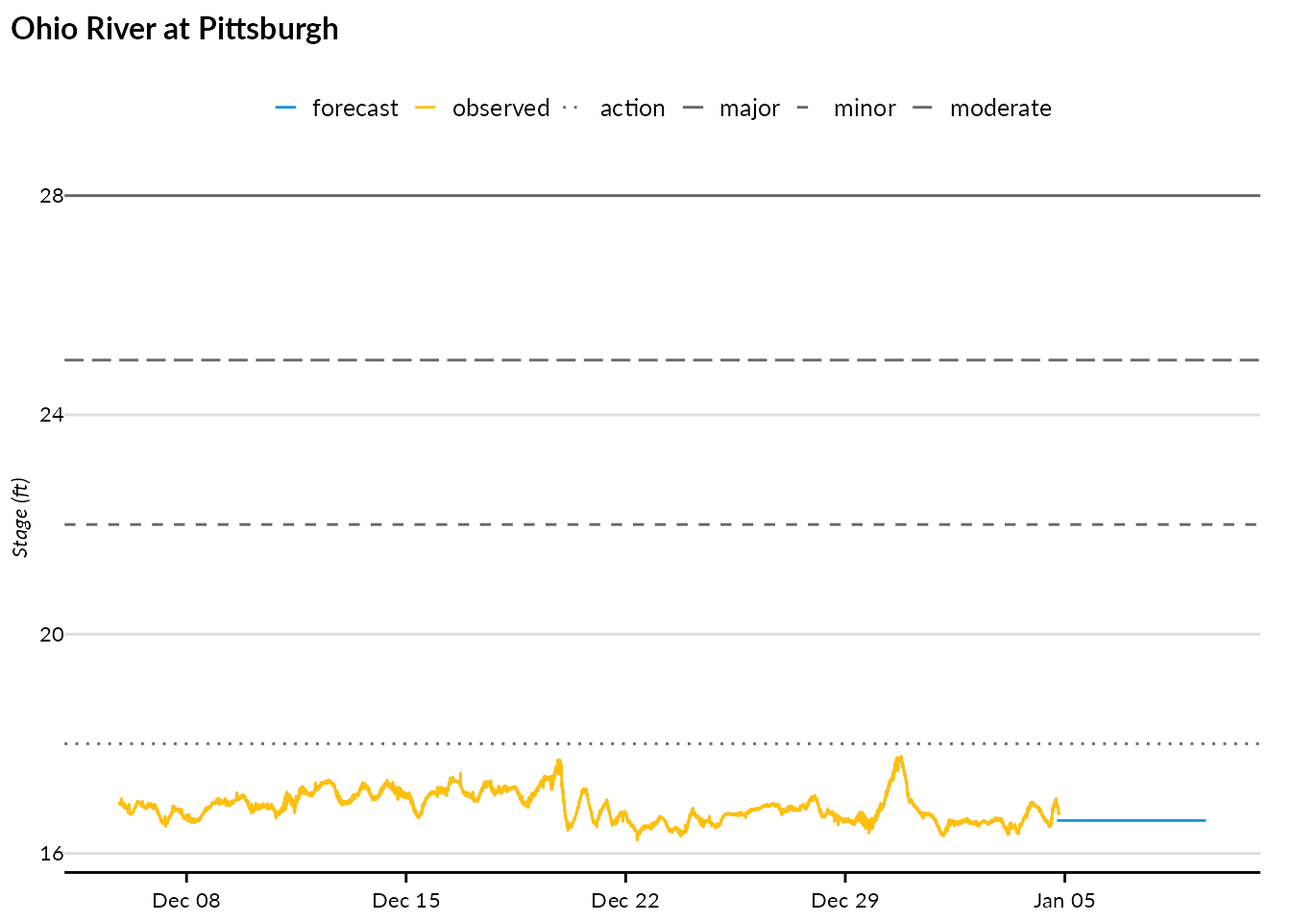
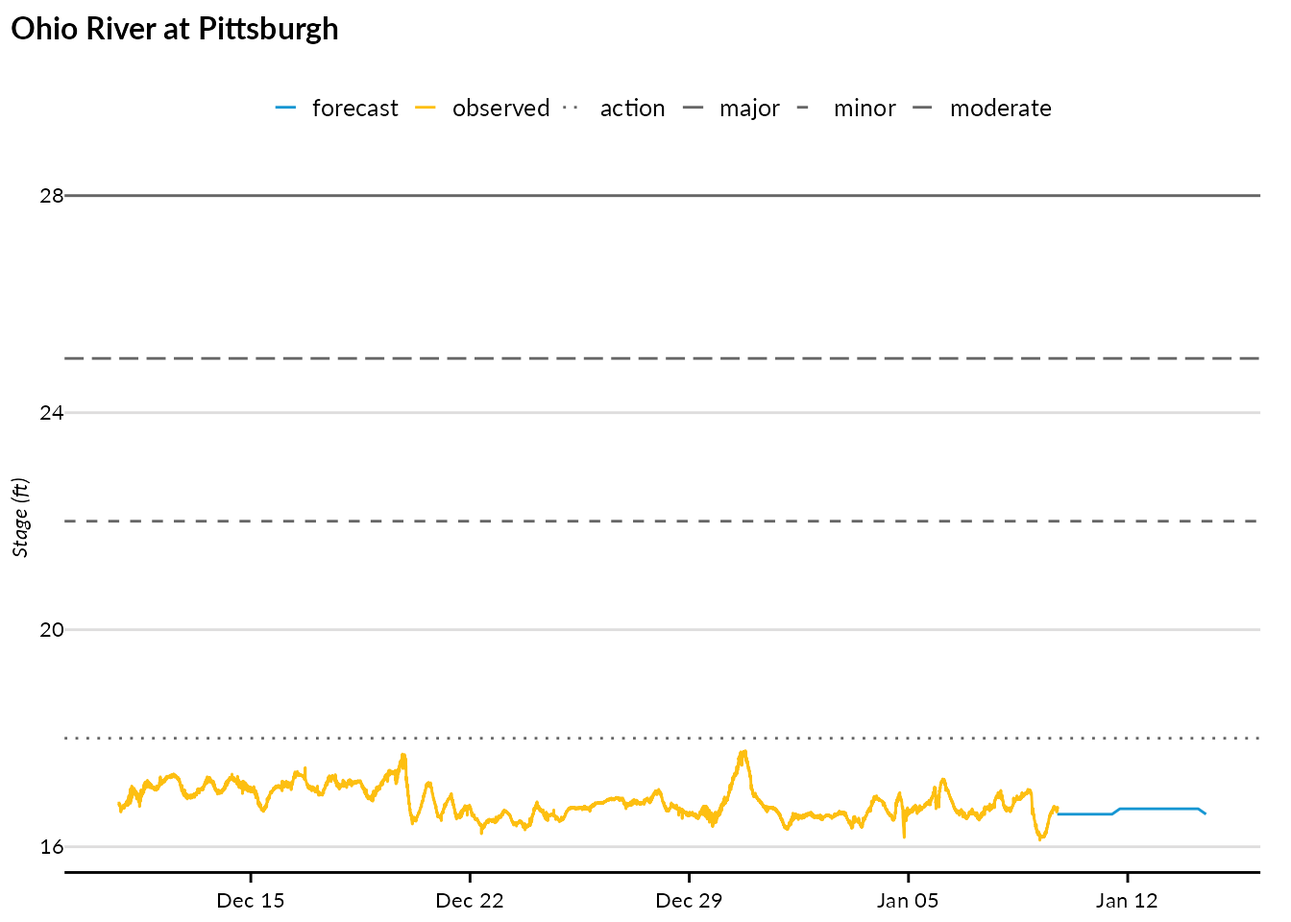
Deploying to gh-pages from @ UI-Research/nwps@55c2832f652c1a17ee87fc86994f76f4d304f9a6 🚀

diff --git a/articles/nwps.html b/articles/nwps.html
@@ -71,7 +71,7 @@
 <span><span class="co">#&gt; <span style="color: #00BBBB;">ℹ</span> The deprecated feature was likely used in the <span style="color: #0000BB;">urbnthemes</span> package.</span></span>
 <span><span class="co">#&gt;   Please report the issue at</span></span>
 <span><span class="co">#&gt;   <span style="color: #0000BB; font-style: italic;">&lt;https://github.com/UrbanInstitute/urbnthemes/issues&gt;</span>.</span></span>
-<span><span class="co">#&gt; <span style="color: #555555;">This warning is displayed once every 8 hours.</span></span></span>
+<span><span class="co">#&gt; <span style="color: #555555;">This warning is displayed once per session.</span></span></span>
 <span><span class="co">#&gt; <span style="color: #555555;">Call `lifecycle::last_lifecycle_warnings()` to see where this warning was</span></span></span>
 <span><span class="co">#&gt; <span style="color: #555555;">generated.</span></span></span>
 <span><span class="co">#&gt; Warning: The `size` argument of `element_rect()` is deprecated as of ggplot2 3.4.0.</span></span>
@@ -79,7 +79,7 @@
 <span><span class="co">#&gt; <span style="color: #00BBBB;">ℹ</span> The deprecated feature was likely used in the <span style="color: #0000BB;">urbnthemes</span> package.</span></span>
 <span><span class="co">#&gt;   Please report the issue at</span></span>
 <span><span class="co">#&gt;   <span style="color: #0000BB; font-style: italic;">&lt;https://github.com/UrbanInstitute/urbnthemes/issues&gt;</span>.</span></span>
-<span><span class="co">#&gt; <span style="color: #555555;">This warning is displayed once every 8 hours.</span></span></span>
+<span><span class="co">#&gt; <span style="color: #555555;">This warning is displayed once per session.</span></span></span>
 <span><span class="co">#&gt; <span style="color: #555555;">Call `lifecycle::last_lifecycle_warnings()` to see where this warning was</span></span></span>
 <span><span class="co">#&gt; <span style="color: #555555;">generated.</span></span></span></code></pre></div>
 <div class="section level2">
@@ -255,8 +255,8 @@ time series. By default, it returns both observed and forecast data.</p>
 <span><span class="co">#&gt; <span style="color: #949494;"># A tibble: 2 × 4</span></span></span>
 <span><span class="co">#&gt;   product  n_obs min_time            max_time           </span></span>
 <span><span class="co">#&gt;   <span style="color: #949494; font-style: italic;">&lt;chr&gt;</span>    <span style="color: #949494; font-style: italic;">&lt;int&gt;</span> <span style="color: #949494; font-style: italic;">&lt;dttm&gt;</span>              <span style="color: #949494; font-style: italic;">&lt;dttm&gt;</span>             </span></span>
-<span><span class="co">#&gt; <span style="color: #BCBCBC;">1</span> forecast    20 2026-01-04 <span style="color: #949494;">18:00:00</span> 2026-01-09 <span style="color: #949494;">12:00:00</span></span></span>
-<span><span class="co">#&gt; <span style="color: #BCBCBC;">2</span> observed  <span style="text-decoration: underline;">8</span>594 2025-12-05 <span style="color: #949494;">20:15:00</span> 2026-01-04 <span style="color: #949494;">19:30:00</span></span></span></code></pre></div>
+<span><span class="co">#&gt; <span style="color: #BCBCBC;">1</span> forecast    20 2026-01-09 <span style="color: #949494;">18:00:00</span> 2026-01-14 <span style="color: #949494;">12:00:00</span></span></span>
+<span><span class="co">#&gt; <span style="color: #BCBCBC;">2</span> observed  <span style="text-decoration: underline;">8</span>603 2025-12-10 <span style="color: #949494;">18:55:00</span> 2026-01-09 <span style="color: #949494;">18:15:00</span></span></span></code></pre></div>
 </div>
 <div class="section level3">
 <h3 id="visualize-the-hydrograph">Visualize the hydrograph<a class="anchor" aria-label="anchor" href="#visualize-the-hydrograph"></a>
@@ -285,7 +285,7 @@ time series. By default, it returns both observed and forecast data.</p>
 <span>  <span class="op">)</span></span>
 <span><span class="co">#&gt; Warning: The `scale_name` argument of `discrete_scale()` is deprecated as of ggplot2</span></span>
 <span><span class="co">#&gt; 3.5.0.</span></span>
-<span><span class="co">#&gt; <span style="color: #555555;">This warning is displayed once every 8 hours.</span></span></span>
+<span><span class="co">#&gt; <span style="color: #555555;">This warning is displayed once per session.</span></span></span>
 <span><span class="co">#&gt; <span style="color: #555555;">Call `lifecycle::last_lifecycle_warnings()` to see where this warning was</span></span></span>
 <span><span class="co">#&gt; <span style="color: #555555;">generated.</span></span></span></code></pre></div>
 <p><img src="nwps_files/figure-html/hydrograph-1.png" class="r-plt" alt="" width="672"></p>
@@ -299,7 +299,7 @@ time series. By default, it returns both observed and forecast data.</p>
 <span><span class="va">forecast_only</span> <span class="op">&lt;-</span> <span class="fu"><a href="../reference/nwps_gauge_stageflow.html">nwps_gauge_stageflow</a></span><span class="op">(</span><span class="st">"PTTP1"</span>, product <span class="op">=</span> <span class="st">"forecast"</span><span class="op">)</span></span>
 <span></span>
 <span><span class="fu"><a href="https://rdrr.io/r/base/nrow.html" class="external-link">nrow</a></span><span class="op">(</span><span class="va">observed_only</span><span class="op">)</span></span>
-<span><span class="co">#&gt; [1] 8596</span></span>
+<span><span class="co">#&gt; [1] 8604</span></span>
 <span><span class="fu"><a href="https://rdrr.io/r/base/nrow.html" class="external-link">nrow</a></span><span class="op">(</span><span class="va">forecast_only</span><span class="op">)</span></span>
 <span><span class="co">#&gt; [1] 20</span></span></code></pre></div>
 </div>
@@ -411,16 +411,16 @@ days)</li>
 <span><span class="co">#&gt; <span style="color: #949494;"># A tibble: 10 × 7</span></span></span>
 <span><span class="co">#&gt;    reach_id series    member reference_time      valid_time           flow units</span></span>
 <span><span class="co">#&gt;    <span style="color: #949494; font-style: italic;">&lt;chr&gt;</span>    <span style="color: #949494; font-style: italic;">&lt;chr&gt;</span>     <span style="color: #949494; font-style: italic;">&lt;chr&gt;</span>  <span style="color: #949494; font-style: italic;">&lt;dttm&gt;</span>              <span style="color: #949494; font-style: italic;">&lt;dttm&gt;</span>              <span style="color: #949494; font-style: italic;">&lt;dbl&gt;</span> <span style="color: #949494; font-style: italic;">&lt;chr&gt;</span></span></span>
-<span><span class="co">#&gt; <span style="color: #BCBCBC;"> 1</span> 22338099 short_ra… series 2026-01-04 <span style="color: #949494;">18:00:00</span> 2026-01-04 <span style="color: #949494;">19:00:00</span>  57.2 ft³/s</span></span>
-<span><span class="co">#&gt; <span style="color: #BCBCBC;"> 2</span> 22338099 short_ra… series 2026-01-04 <span style="color: #949494;">18:00:00</span> 2026-01-04 <span style="color: #949494;">20:00:00</span>  60.0 ft³/s</span></span>
-<span><span class="co">#&gt; <span style="color: #BCBCBC;"> 3</span> 22338099 short_ra… series 2026-01-04 <span style="color: #949494;">18:00:00</span> 2026-01-04 <span style="color: #949494;">21:00:00</span>  65.0 ft³/s</span></span>
-<span><span class="co">#&gt; <span style="color: #BCBCBC;"> 4</span> 22338099 short_ra… series 2026-01-04 <span style="color: #949494;">18:00:00</span> 2026-01-04 <span style="color: #949494;">22:00:00</span>  69.9 ft³/s</span></span>
-<span><span class="co">#&gt; <span style="color: #BCBCBC;"> 5</span> 22338099 short_ra… series 2026-01-04 <span style="color: #949494;">18:00:00</span> 2026-01-04 <span style="color: #949494;">23:00:00</span>  74.2 ft³/s</span></span>
-<span><span class="co">#&gt; <span style="color: #BCBCBC;"> 6</span> 22338099 short_ra… series 2026-01-04 <span style="color: #949494;">18:00:00</span> 2026-01-05 <span style="color: #949494;">00:00:00</span>  77.3 ft³/s</span></span>
-<span><span class="co">#&gt; <span style="color: #BCBCBC;"> 7</span> 22338099 short_ra… series 2026-01-04 <span style="color: #949494;">18:00:00</span> 2026-01-05 <span style="color: #949494;">01:00:00</span>  79.5 ft³/s</span></span>
-<span><span class="co">#&gt; <span style="color: #BCBCBC;"> 8</span> 22338099 short_ra… series 2026-01-04 <span style="color: #949494;">18:00:00</span> 2026-01-05 <span style="color: #949494;">02:00:00</span>  80.5 ft³/s</span></span>
-<span><span class="co">#&gt; <span style="color: #BCBCBC;"> 9</span> 22338099 short_ra… series 2026-01-04 <span style="color: #949494;">18:00:00</span> 2026-01-05 <span style="color: #949494;">03:00:00</span>  81.6 ft³/s</span></span>
-<span><span class="co">#&gt; <span style="color: #BCBCBC;">10</span> 22338099 short_ra… series 2026-01-04 <span style="color: #949494;">18:00:00</span> 2026-01-05 <span style="color: #949494;">04:00:00</span>  82.3 ft³/s</span></span></code></pre></div>
+<span><span class="co">#&gt; <span style="color: #BCBCBC;"> 1</span> 22338099 short_ra… series 2026-01-09 <span style="color: #949494;">16:00:00</span> 2026-01-09 <span style="color: #949494;">17:00:00</span>  56.1 ft³/s</span></span>
+<span><span class="co">#&gt; <span style="color: #BCBCBC;"> 2</span> 22338099 short_ra… series 2026-01-09 <span style="color: #949494;">16:00:00</span> 2026-01-09 <span style="color: #949494;">18:00:00</span>  56.5 ft³/s</span></span>
+<span><span class="co">#&gt; <span style="color: #BCBCBC;"> 3</span> 22338099 short_ra… series 2026-01-09 <span style="color: #949494;">16:00:00</span> 2026-01-09 <span style="color: #949494;">19:00:00</span>  56.9 ft³/s</span></span>
+<span><span class="co">#&gt; <span style="color: #BCBCBC;"> 4</span> 22338099 short_ra… series 2026-01-09 <span style="color: #949494;">16:00:00</span> 2026-01-09 <span style="color: #949494;">20:00:00</span>  57.6 ft³/s</span></span>
+<span><span class="co">#&gt; <span style="color: #BCBCBC;"> 5</span> 22338099 short_ra… series 2026-01-09 <span style="color: #949494;">16:00:00</span> 2026-01-09 <span style="color: #949494;">21:00:00</span>  58.6 ft³/s</span></span>
+<span><span class="co">#&gt; <span style="color: #BCBCBC;"> 6</span> 22338099 short_ra… series 2026-01-09 <span style="color: #949494;">16:00:00</span> 2026-01-09 <span style="color: #949494;">22:00:00</span>  59.7 ft³/s</span></span>
+<span><span class="co">#&gt; <span style="color: #BCBCBC;"> 7</span> 22338099 short_ra… series 2026-01-09 <span style="color: #949494;">16:00:00</span> 2026-01-09 <span style="color: #949494;">23:00:00</span>  61.8 ft³/s</span></span>
+<span><span class="co">#&gt; <span style="color: #BCBCBC;"> 8</span> 22338099 short_ra… series 2026-01-09 <span style="color: #949494;">16:00:00</span> 2026-01-10 <span style="color: #949494;">00:00:00</span>  65.7 ft³/s</span></span>
+<span><span class="co">#&gt; <span style="color: #BCBCBC;"> 9</span> 22338099 short_ra… series 2026-01-09 <span style="color: #949494;">16:00:00</span> 2026-01-10 <span style="color: #949494;">01:00:00</span>  69.9 ft³/s</span></span>
+<span><span class="co">#&gt; <span style="color: #BCBCBC;">10</span> 22338099 short_ra… series 2026-01-09 <span style="color: #949494;">16:00:00</span> 2026-01-10 <span style="color: #949494;">02:00:00</span>  73.4 ft³/s</span></span></code></pre></div>
 </div>
 <div class="section level3">
 <h3 id="visualize-nwm-forecasts">Visualize NWM forecasts<a class="anchor" aria-label="anchor" href="#visualize-nwm-forecasts"></a>
@@ -447,16 +447,15 @@ available:</p>
 <span><span class="va">medium_range</span> <span class="op">|&gt;</span></span>
 <span>  <span class="fu"><a href="https://dplyr.tidyverse.org/reference/group_by.html" class="external-link">group_by</a></span><span class="op">(</span><span class="va">member</span><span class="op">)</span> <span class="op">|&gt;</span></span>
 <span>  <span class="fu"><a href="https://dplyr.tidyverse.org/reference/summarise.html" class="external-link">summarize</a></span><span class="op">(</span>n <span class="op">=</span> <span class="fu"><a href="https://dplyr.tidyverse.org/reference/context.html" class="external-link">n</a></span><span class="op">(</span><span class="op">)</span>, .groups <span class="op">=</span> <span class="st">"drop"</span><span class="op">)</span></span>
-<span><span class="co">#&gt; <span style="color: #949494;"># A tibble: 7 × 2</span></span></span>
+<span><span class="co">#&gt; <span style="color: #949494;"># A tibble: 6 × 2</span></span></span>
 <span><span class="co">#&gt;   member      n</span></span>
 <span><span class="co">#&gt;   <span style="color: #949494; font-style: italic;">&lt;chr&gt;</span>   <span style="color: #949494; font-style: italic;">&lt;int&gt;</span></span></span>
 <span><span class="co">#&gt; <span style="color: #BCBCBC;">1</span> mean      204</span></span>
 <span><span class="co">#&gt; <span style="color: #BCBCBC;">2</span> member1   240</span></span>
-<span><span class="co">#&gt; <span style="color: #BCBCBC;">3</span> member2   204</span></span>
-<span><span class="co">#&gt; <span style="color: #BCBCBC;">4</span> member3   204</span></span>
-<span><span class="co">#&gt; <span style="color: #BCBCBC;">5</span> member4   204</span></span>
-<span><span class="co">#&gt; <span style="color: #BCBCBC;">6</span> member5   204</span></span>
-<span><span class="co">#&gt; <span style="color: #BCBCBC;">7</span> member6   204</span></span></code></pre></div>
+<span><span class="co">#&gt; <span style="color: #BCBCBC;">3</span> member3   204</span></span>
+<span><span class="co">#&gt; <span style="color: #BCBCBC;">4</span> member4   204</span></span>
+<span><span class="co">#&gt; <span style="color: #BCBCBC;">5</span> member5   204</span></span>
+<span><span class="co">#&gt; <span style="color: #BCBCBC;">6</span> member6   204</span></span></code></pre></div>
 </div>
 </div>
 <div class="section level2">
@@ -483,12 +482,12 @@ Source) code:</p>
 <span><span class="co">#&gt; <span style="color: #949494;"># A tibble: 6 × 12</span></span></span>
 <span><span class="co">#&gt;   pedts issued_time         wfo   time_zone valid_time         </span></span>
 <span><span class="co">#&gt;   <span style="color: #949494; font-style: italic;">&lt;chr&gt;</span> <span style="color: #949494; font-style: italic;">&lt;dttm&gt;</span>              <span style="color: #949494; font-style: italic;">&lt;chr&gt;</span> <span style="color: #949494; font-style: italic;">&lt;chr&gt;</span>     <span style="color: #949494; font-style: italic;">&lt;dttm&gt;</span>             </span></span>
-<span><span class="co">#&gt; <span style="color: #BCBCBC;">1</span> HGIRG 2026-01-04 <span style="color: #949494;">19:45:00</span> PBZ   EST5EDT   2025-12-05 <span style="color: #949494;">20:05:00</span></span></span>
-<span><span class="co">#&gt; <span style="color: #BCBCBC;">2</span> HGIRG 2026-01-04 <span style="color: #949494;">19:45:00</span> PBZ   EST5EDT   2025-12-05 <span style="color: #949494;">20:10:00</span></span></span>
-<span><span class="co">#&gt; <span style="color: #BCBCBC;">3</span> HGIRG 2026-01-04 <span style="color: #949494;">19:45:00</span> PBZ   EST5EDT   2025-12-05 <span style="color: #949494;">20:15:00</span></span></span>
-<span><span class="co">#&gt; <span style="color: #BCBCBC;">4</span> HGIRG 2026-01-04 <span style="color: #949494;">19:45:00</span> PBZ   EST5EDT   2025-12-05 <span style="color: #949494;">20:20:00</span></span></span>
-<span><span class="co">#&gt; <span style="color: #BCBCBC;">5</span> HGIRG 2026-01-04 <span style="color: #949494;">19:45:00</span> PBZ   EST5EDT   2025-12-05 <span style="color: #949494;">20:25:00</span></span></span>
-<span><span class="co">#&gt; <span style="color: #BCBCBC;">6</span> HGIRG 2026-01-04 <span style="color: #949494;">19:45:00</span> PBZ   EST5EDT   2025-12-05 <span style="color: #949494;">20:30:00</span></span></span>
+<span><span class="co">#&gt; <span style="color: #BCBCBC;">1</span> HGIRG 2026-01-09 <span style="color: #949494;">18:30:00</span> PBZ   EST5EDT   2025-12-10 <span style="color: #949494;">18:50:00</span></span></span>
+<span><span class="co">#&gt; <span style="color: #BCBCBC;">2</span> HGIRG 2026-01-09 <span style="color: #949494;">18:30:00</span> PBZ   EST5EDT   2025-12-10 <span style="color: #949494;">18:55:00</span></span></span>
+<span><span class="co">#&gt; <span style="color: #BCBCBC;">3</span> HGIRG 2026-01-09 <span style="color: #949494;">18:30:00</span> PBZ   EST5EDT   2025-12-10 <span style="color: #949494;">19:00:00</span></span></span>
+<span><span class="co">#&gt; <span style="color: #BCBCBC;">4</span> HGIRG 2026-01-09 <span style="color: #949494;">18:30:00</span> PBZ   EST5EDT   2025-12-10 <span style="color: #949494;">19:05:00</span></span></span>
+<span><span class="co">#&gt; <span style="color: #BCBCBC;">5</span> HGIRG 2026-01-09 <span style="color: #949494;">18:30:00</span> PBZ   EST5EDT   2025-12-10 <span style="color: #949494;">19:10:00</span></span></span>
+<span><span class="co">#&gt; <span style="color: #BCBCBC;">6</span> HGIRG 2026-01-09 <span style="color: #949494;">18:30:00</span> PBZ   EST5EDT   2025-12-10 <span style="color: #949494;">19:15:00</span></span></span>
 <span><span class="co">#&gt; <span style="color: #949494;"># ℹ 7 more variables: generated_time &lt;dttm&gt;, primary &lt;dbl&gt;, primary_name &lt;chr&gt;,</span></span></span>
 <span><span class="co">#&gt; <span style="color: #949494;">#   primary_units &lt;chr&gt;, secondary &lt;dbl&gt;, secondary_name &lt;chr&gt;,</span></span></span>
 <span><span class="co">#&gt; <span style="color: #949494;">#   secondary_units &lt;chr&gt;</span></span></span></code></pre></div>
@@ -510,29 +509,29 @@ status:</p>
 <span><span class="co">#&gt; <span style="color: #949494;"># A tibble: 9 × 3</span></span></span>
 <span><span class="co">#&gt;   type     category        count</span></span>
 <span><span class="co">#&gt;   <span style="color: #949494; font-style: italic;">&lt;chr&gt;</span>    <span style="color: #949494; font-style: italic;">&lt;chr&gt;</span>           <span style="color: #949494; font-style: italic;">&lt;int&gt;</span></span></span>
-<span><span class="co">#&gt; <span style="color: #BCBCBC;">1</span> observed action             28</span></span>
-<span><span class="co">#&gt; <span style="color: #BCBCBC;">2</span> observed low_threshold      98</span></span>
-<span><span class="co">#&gt; <span style="color: #BCBCBC;">3</span> observed major               2</span></span>
-<span><span class="co">#&gt; <span style="color: #BCBCBC;">4</span> observed minor               3</span></span>
-<span><span class="co">#&gt; <span style="color: #BCBCBC;">5</span> observed moderate            2</span></span>
-<span><span class="co">#&gt; <span style="color: #BCBCBC;">6</span> observed no_flooding      <span style="text-decoration: underline;">6</span>757</span></span>
-<span><span class="co">#&gt; <span style="color: #BCBCBC;">7</span> observed not_defined      <span style="text-decoration: underline;">3</span>948</span></span>
-<span><span class="co">#&gt; <span style="color: #BCBCBC;">8</span> observed obs_not_current   897</span></span>
-<span><span class="co">#&gt; <span style="color: #BCBCBC;">9</span> observed out_of_service    801</span></span>
+<span><span class="co">#&gt; <span style="color: #BCBCBC;">1</span> observed action             26</span></span>
+<span><span class="co">#&gt; <span style="color: #BCBCBC;">2</span> observed low_threshold      86</span></span>
+<span><span class="co">#&gt; <span style="color: #BCBCBC;">3</span> observed major               3</span></span>
+<span><span class="co">#&gt; <span style="color: #BCBCBC;">4</span> observed minor               1</span></span>
+<span><span class="co">#&gt; <span style="color: #BCBCBC;">5</span> observed moderate            1</span></span>
+<span><span class="co">#&gt; <span style="color: #BCBCBC;">6</span> observed no_flooding      <span style="text-decoration: underline;">6</span>790</span></span>
+<span><span class="co">#&gt; <span style="color: #BCBCBC;">7</span> observed not_defined      <span style="text-decoration: underline;">3</span>967</span></span>
+<span><span class="co">#&gt; <span style="color: #BCBCBC;">8</span> observed obs_not_current   878</span></span>
+<span><span class="co">#&gt; <span style="color: #BCBCBC;">9</span> observed out_of_service    804</span></span>
 <span></span>
 <span><span class="co"># Gauges by forecast flood category</span></span>
 <span><span class="va">status</span><span class="op">$</span><span class="va">gauge_forecast</span></span>
 <span><span class="co">#&gt; <span style="color: #949494;"># A tibble: 8 × 3</span></span></span>
 <span><span class="co">#&gt;   type     category         count</span></span>
 <span><span class="co">#&gt;   <span style="color: #949494; font-style: italic;">&lt;chr&gt;</span>    <span style="color: #949494; font-style: italic;">&lt;chr&gt;</span>            <span style="color: #949494; font-style: italic;">&lt;int&gt;</span></span></span>
-<span><span class="co">#&gt; <span style="color: #BCBCBC;">1</span> forecast action              39</span></span>
-<span><span class="co">#&gt; <span style="color: #BCBCBC;">2</span> forecast fcst_not_current  <span style="text-decoration: underline;">9</span>609</span></span>
-<span><span class="co">#&gt; <span style="color: #BCBCBC;">3</span> forecast low_threshold        8</span></span>
-<span><span class="co">#&gt; <span style="color: #BCBCBC;">4</span> forecast minor                6</span></span>
+<span><span class="co">#&gt; <span style="color: #BCBCBC;">1</span> forecast action              42</span></span>
+<span><span class="co">#&gt; <span style="color: #BCBCBC;">2</span> forecast fcst_not_current  <span style="text-decoration: underline;">9</span>540</span></span>
+<span><span class="co">#&gt; <span style="color: #BCBCBC;">3</span> forecast low_threshold        5</span></span>
+<span><span class="co">#&gt; <span style="color: #BCBCBC;">4</span> forecast minor                1</span></span>
 <span><span class="co">#&gt; <span style="color: #BCBCBC;">5</span> forecast moderate             1</span></span>
-<span><span class="co">#&gt; <span style="color: #BCBCBC;">6</span> forecast no_flooding       <span style="text-decoration: underline;">1</span>708</span></span>
-<span><span class="co">#&gt; <span style="color: #BCBCBC;">7</span> forecast not_defined        364</span></span>
-<span><span class="co">#&gt; <span style="color: #BCBCBC;">8</span> forecast out_of_service     801</span></span></code></pre></div>
+<span><span class="co">#&gt; <span style="color: #BCBCBC;">6</span> forecast no_flooding       <span style="text-decoration: underline;">1</span>783</span></span>
+<span><span class="co">#&gt; <span style="color: #BCBCBC;">7</span> forecast not_defined        380</span></span>
+<span><span class="co">#&gt; <span style="color: #BCBCBC;">8</span> forecast out_of_service     804</span></span></code></pre></div>
 <p>The monitoring endpoint also provides information about data
 processing:</p>
 <div class="sourceCode" id="cb19"><pre class="downlit sourceCode r">
@@ -541,16 +540,16 @@ processing:</p>
 <span><span class="co">#&gt; <span style="color: #949494;"># A tibble: 102 × 2</span></span></span>
 <span><span class="co">#&gt;    time_period count</span></span>
 <span><span class="co">#&gt;    <span style="color: #949494; font-style: italic;">&lt;chr&gt;</span>       <span style="color: #949494; font-style: italic;">&lt;int&gt;</span></span></span>
-<span><span class="co">#&gt; <span style="color: #BCBCBC;"> 1</span> t-10day     <span style="text-decoration: underline;">47</span>073</span></span>
-<span><span class="co">#&gt; <span style="color: #BCBCBC;"> 2</span> t-10hour     <span style="text-decoration: underline;">1</span>961</span></span>
-<span><span class="co">#&gt; <span style="color: #BCBCBC;"> 3</span> t-11day     <span style="text-decoration: underline;">47</span>112</span></span>
-<span><span class="co">#&gt; <span style="color: #BCBCBC;"> 4</span> t-11hour     <span style="text-decoration: underline;">1</span>963</span></span>
-<span><span class="co">#&gt; <span style="color: #BCBCBC;"> 5</span> t-12day     <span style="text-decoration: underline;">47</span>115</span></span>
-<span><span class="co">#&gt; <span style="color: #BCBCBC;"> 6</span> t-12hour     <span style="text-decoration: underline;">1</span>962</span></span>
-<span><span class="co">#&gt; <span style="color: #BCBCBC;"> 7</span> t-13day     <span style="text-decoration: underline;">47</span>117</span></span>
-<span><span class="co">#&gt; <span style="color: #BCBCBC;"> 8</span> t-13hour     <span style="text-decoration: underline;">1</span>960</span></span>
-<span><span class="co">#&gt; <span style="color: #BCBCBC;"> 9</span> t-14day     <span style="text-decoration: underline;">47</span>032</span></span>
-<span><span class="co">#&gt; <span style="color: #BCBCBC;">10</span> t-14hour     <span style="text-decoration: underline;">1</span>959</span></span>
+<span><span class="co">#&gt; <span style="color: #BCBCBC;"> 1</span> t-10day     <span style="text-decoration: underline;">47</span>087</span></span>
+<span><span class="co">#&gt; <span style="color: #BCBCBC;"> 2</span> t-10hour     <span style="text-decoration: underline;">1</span>950</span></span>
+<span><span class="co">#&gt; <span style="color: #BCBCBC;"> 3</span> t-11day     <span style="text-decoration: underline;">46</span>954</span></span>
+<span><span class="co">#&gt; <span style="color: #BCBCBC;"> 4</span> t-11hour     <span style="text-decoration: underline;">1</span>955</span></span>
+<span><span class="co">#&gt; <span style="color: #BCBCBC;"> 5</span> t-12day     <span style="text-decoration: underline;">47</span>038</span></span>
+<span><span class="co">#&gt; <span style="color: #BCBCBC;"> 6</span> t-12hour     <span style="text-decoration: underline;">1</span>951</span></span>
+<span><span class="co">#&gt; <span style="color: #BCBCBC;"> 7</span> t-13day     <span style="text-decoration: underline;">47</span>107</span></span>
+<span><span class="co">#&gt; <span style="color: #BCBCBC;"> 8</span> t-13hour     <span style="text-decoration: underline;">1</span>953</span></span>
+<span><span class="co">#&gt; <span style="color: #BCBCBC;"> 9</span> t-14day     <span style="text-decoration: underline;">47</span>099</span></span>
+<span><span class="co">#&gt; <span style="color: #BCBCBC;">10</span> t-14hour     <span style="text-decoration: underline;">1</span>955</span></span>
 <span><span class="co">#&gt; <span style="color: #949494;"># ℹ 92 more rows</span></span></span>
 <span></span>
 <span><span class="co"># Long Range Outlook status</span></span>
@@ -558,7 +557,7 @@ processing:</p>
 <span><span class="co">#&gt; <span style="color: #949494;"># A tibble: 1 × 2</span></span></span>
 <span><span class="co">#&gt;   current_lros current_interval</span></span>
 <span><span class="co">#&gt;          <span style="color: #949494; font-style: italic;">&lt;int&gt;</span> <span style="color: #949494; font-style: italic;">&lt;chr&gt;</span>           </span></span>
-<span><span class="co">#&gt; <span style="color: #BCBCBC;">1</span>          353 JFM</span></span></code></pre></div>
+<span><span class="co">#&gt; <span style="color: #BCBCBC;">1</span>         <span style="text-decoration: underline;">1</span>029 JFM</span></span></code></pre></div>
 </div>
 </div>
 <div class="section level2">

diff --git a/articles/nwps.md b/articles/nwps.md
@@ -12,7 +12,7 @@ set_urbn_defaults(style = "print")
 #> ℹ The deprecated feature was likely used in the urbnthemes package.
 #>   Please report the issue at
 #>   <https://github.com/UrbanInstitute/urbnthemes/issues>.
-#> This warning is displayed once every 8 hours.
+#> This warning is displayed once per session.
 #> Call `lifecycle::last_lifecycle_warnings()` to see where this warning was
 #> generated.
 #> Warning: The `size` argument of `element_rect()` is deprecated as of ggplot2 3.4.0.
@@ -20,7 +20,7 @@ set_urbn_defaults(style = "print")
 #> ℹ The deprecated feature was likely used in the urbnthemes package.
 #>   Please report the issue at
 #>   <https://github.com/UrbanInstitute/urbnthemes/issues>.
-#> This warning is displayed once every 8 hours.
+#> This warning is displayed once per session.
 #> Call `lifecycle::last_lifecycle_warnings()` to see where this warning was
 #> generated.
 ```
@@ -204,8 +204,8 @@ stageflow |>
 #> # A tibble: 2 × 4
 #>   product  n_obs min_time            max_time           
 #>   <chr>    <int> <dttm>              <dttm>             
-#> 1 forecast    20 2026-01-04 18:00:00 2026-01-09 12:00:00
-#> 2 observed  8594 2025-12-05 20:15:00 2026-01-04 19:30:00
+#> 1 forecast    20 2026-01-09 18:00:00 2026-01-14 12:00:00
+#> 2 observed  8603 2025-12-10 18:55:00 2026-01-09 18:15:00
 ```
 
 ### Visualize the hydrograph
@@ -235,7 +235,7 @@ ggplot(stageflow, aes(x = valid_time, y = primary, color = product)) +
   )
 #> Warning: The `scale_name` argument of `discrete_scale()` is deprecated as of ggplot2
 #> 3.5.0.
-#> This warning is displayed once every 8 hours.
+#> This warning is displayed once per session.
 #> Call `lifecycle::last_lifecycle_warnings()` to see where this warning was
 #> generated.
 ```
@@ -251,7 +251,7 @@ observed_only <- nwps_gauge_stageflow("PTTP1", product = "observed")
 forecast_only <- nwps_gauge_stageflow("PTTP1", product = "forecast")
 
 nrow(observed_only)
-#> [1] 8596
+#> [1] 8604
 nrow(forecast_only)
 #> [1] 20
 ```
@@ -360,16 +360,16 @@ short_range |>
 #> # A tibble: 10 × 7
 #>    reach_id series    member reference_time      valid_time           flow units
 #>    <chr>    <chr>     <chr>  <dttm>              <dttm>              <dbl> <chr>
-#>  1 22338099 short_ra… series 2026-01-04 18:00:00 2026-01-04 19:00:00  57.2 ft³/s
-#>  2 22338099 short_ra… series 2026-01-04 18:00:00 2026-01-04 20:00:00  60.0 ft³/s
-#>  3 22338099 short_ra… series 2026-01-04 18:00:00 2026-01-04 21:00:00  65.0 ft³/s
-#>  4 22338099 short_ra… series 2026-01-04 18:00:00 2026-01-04 22:00:00  69.9 ft³/s
-#>  5 22338099 short_ra… series 2026-01-04 18:00:00 2026-01-04 23:00:00  74.2 ft³/s
-#>  6 22338099 short_ra… series 2026-01-04 18:00:00 2026-01-05 00:00:00  77.3 ft³/s
-#>  7 22338099 short_ra… series 2026-01-04 18:00:00 2026-01-05 01:00:00  79.5 ft³/s
-#>  8 22338099 short_ra… series 2026-01-04 18:00:00 2026-01-05 02:00:00  80.5 ft³/s
-#>  9 22338099 short_ra… series 2026-01-04 18:00:00 2026-01-05 03:00:00  81.6 ft³/s
-#> 10 22338099 short_ra… series 2026-01-04 18:00:00 2026-01-05 04:00:00  82.3 ft³/s
+#>  1 22338099 short_ra… series 2026-01-09 16:00:00 2026-01-09 17:00:00  56.1 ft³/s
+#>  2 22338099 short_ra… series 2026-01-09 16:00:00 2026-01-09 18:00:00  56.5 ft³/s
+#>  3 22338099 short_ra… series 2026-01-09 16:00:00 2026-01-09 19:00:00  56.9 ft³/s
+#>  4 22338099 short_ra… series 2026-01-09 16:00:00 2026-01-09 20:00:00  57.6 ft³/s
+#>  5 22338099 short_ra… series 2026-01-09 16:00:00 2026-01-09 21:00:00  58.6 ft³/s
+#>  6 22338099 short_ra… series 2026-01-09 16:00:00 2026-01-09 22:00:00  59.7 ft³/s
+#>  7 22338099 short_ra… series 2026-01-09 16:00:00 2026-01-09 23:00:00  61.8 ft³/s
+#>  8 22338099 short_ra… series 2026-01-09 16:00:00 2026-01-10 00:00:00  65.7 ft³/s
+#>  9 22338099 short_ra… series 2026-01-09 16:00:00 2026-01-10 01:00:00  69.9 ft³/s
+#> 10 22338099 short_ra… series 2026-01-09 16:00:00 2026-01-10 02:00:00  73.4 ft³/s
 ```
 
 ### Visualize NWM forecasts
@@ -398,16 +398,15 @@ medium_range <- nwps_reach_streamflow("22338099", series = "medium_range")
 medium_range |>
   group_by(member) |>
   summarize(n = n(), .groups = "drop")
-#> # A tibble: 7 × 2
+#> # A tibble: 6 × 2
 #>   member      n
 #>   <chr>   <int>
 #> 1 mean      204
 #> 2 member1   240
-#> 3 member2   204
-#> 4 member3   204
-#> 5 member4   204
-#> 6 member5   204
-#> 7 member6   204
+#> 3 member3   204
+#> 4 member4   204
+#> 5 member5   204
+#> 6 member6   204
 ```
 
 ## SHEF product codes
@@ -434,12 +433,12 @@ head(observed_pedts)
 #> # A tibble: 6 × 12
 #>   pedts issued_time         wfo   time_zone valid_time         
 #>   <chr> <dttm>              <chr> <chr>     <dttm>             
-#> 1 HGIRG 2026-01-04 19:45:00 PBZ   EST5EDT   2025-12-05 20:05:00
-#> 2 HGIRG 2026-01-04 19:45:00 PBZ   EST5EDT   2025-12-05 20:10:00
-#> 3 HGIRG 2026-01-04 19:45:00 PBZ   EST5EDT   2025-12-05 20:15:00
-#> 4 HGIRG 2026-01-04 19:45:00 PBZ   EST5EDT   2025-12-05 20:20:00
-#> 5 HGIRG 2026-01-04 19:45:00 PBZ   EST5EDT   2025-12-05 20:25:00
-#> 6 HGIRG 2026-01-04 19:45:00 PBZ   EST5EDT   2025-12-05 20:30:00
+#> 1 HGIRG 2026-01-09 18:30:00 PBZ   EST5EDT   2025-12-10 18:50:00
+#> 2 HGIRG 2026-01-09 18:30:00 PBZ   EST5EDT   2025-12-10 18:55:00
+#> 3 HGIRG 2026-01-09 18:30:00 PBZ   EST5EDT   2025-12-10 19:00:00
+#> 4 HGIRG 2026-01-09 18:30:00 PBZ   EST5EDT   2025-12-10 19:05:00
+#> 5 HGIRG 2026-01-09 18:30:00 PBZ   EST5EDT   2025-12-10 19:10:00
+#> 6 HGIRG 2026-01-09 18:30:00 PBZ   EST5EDT   2025-12-10 19:15:00
 #> # ℹ 7 more variables: generated_time <dttm>, primary <dbl>, primary_name <chr>,
 #> #   primary_units <chr>, secondary <dbl>, secondary_name <chr>,
 #> #   secondary_units <chr>
@@ -461,29 +460,29 @@ status$gauge_observed
 #> # A tibble: 9 × 3
 #>   type     category        count
 #>   <chr>    <chr>           <int>
-#> 1 observed action             28
-#> 2 observed low_threshold      98
-#> 3 observed major               2
-#> 4 observed minor               3
-#> 5 observed moderate            2
-#> 6 observed no_flooding      6757
-#> 7 observed not_defined      3948
-#> 8 observed obs_not_current   897
-#> 9 observed out_of_service    801
+#> 1 observed action             26
+#> 2 observed low_threshold      86
+#> 3 observed major               3
+#> 4 observed minor               1
+#> 5 observed moderate            1
+#> 6 observed no_flooding      6790
+#> 7 observed not_defined      3967
+#> 8 observed obs_not_current   878
+#> 9 observed out_of_service    804
 
 # Gauges by forecast flood category
 status$gauge_forecast
 #> # A tibble: 8 × 3
 #>   type     category         count
 #>   <chr>    <chr>            <int>
-#> 1 forecast action              39
-#> 2 forecast fcst_not_current  9609
-#> 3 forecast low_threshold        8
-#> 4 forecast minor                6
+#> 1 forecast action              42
+#> 2 forecast fcst_not_current  9540
+#> 3 forecast low_threshold        5
+#> 4 forecast minor                1
 #> 5 forecast moderate             1
-#> 6 forecast no_flooding       1708
-#> 7 forecast not_defined        364
-#> 8 forecast out_of_service     801
+#> 6 forecast no_flooding       1783
+#> 7 forecast not_defined        380
+#> 8 forecast out_of_service     804
 ```
 
 The monitoring endpoint also provides information about data processing:
@@ -494,16 +493,16 @@ status$hml_product_counts
 #> # A tibble: 102 × 2
 #>    time_period count
 #>    <chr>       <int>
-#>  1 t-10day     47073
-#>  2 t-10hour     1961
-#>  3 t-11day     47112
-#>  4 t-11hour     1963
-#>  5 t-12day     47115
-#>  6 t-12hour     1962
-#>  7 t-13day     47117
-#>  8 t-13hour     1960
-#>  9 t-14day     47032
-#> 10 t-14hour     1959
+#>  1 t-10day     47087
+#>  2 t-10hour     1950
+#>  3 t-11day     46954
+#>  4 t-11hour     1955
+#>  5 t-12day     47038
+#>  6 t-12hour     1951
+#>  7 t-13day     47107
+#>  8 t-13hour     1953
+#>  9 t-14day     47099
+#> 10 t-14hour     1955
 #> # ℹ 92 more rows
 
 # Long Range Outlook status
@@ -511,7 +510,7 @@ status$lro
 #> # A tibble: 1 × 2
 #>   current_lros current_interval
 #>          <int> <chr>           
-#> 1          353 JFM
+#> 1         1029 JFM
 ```
 
 ## Summary
